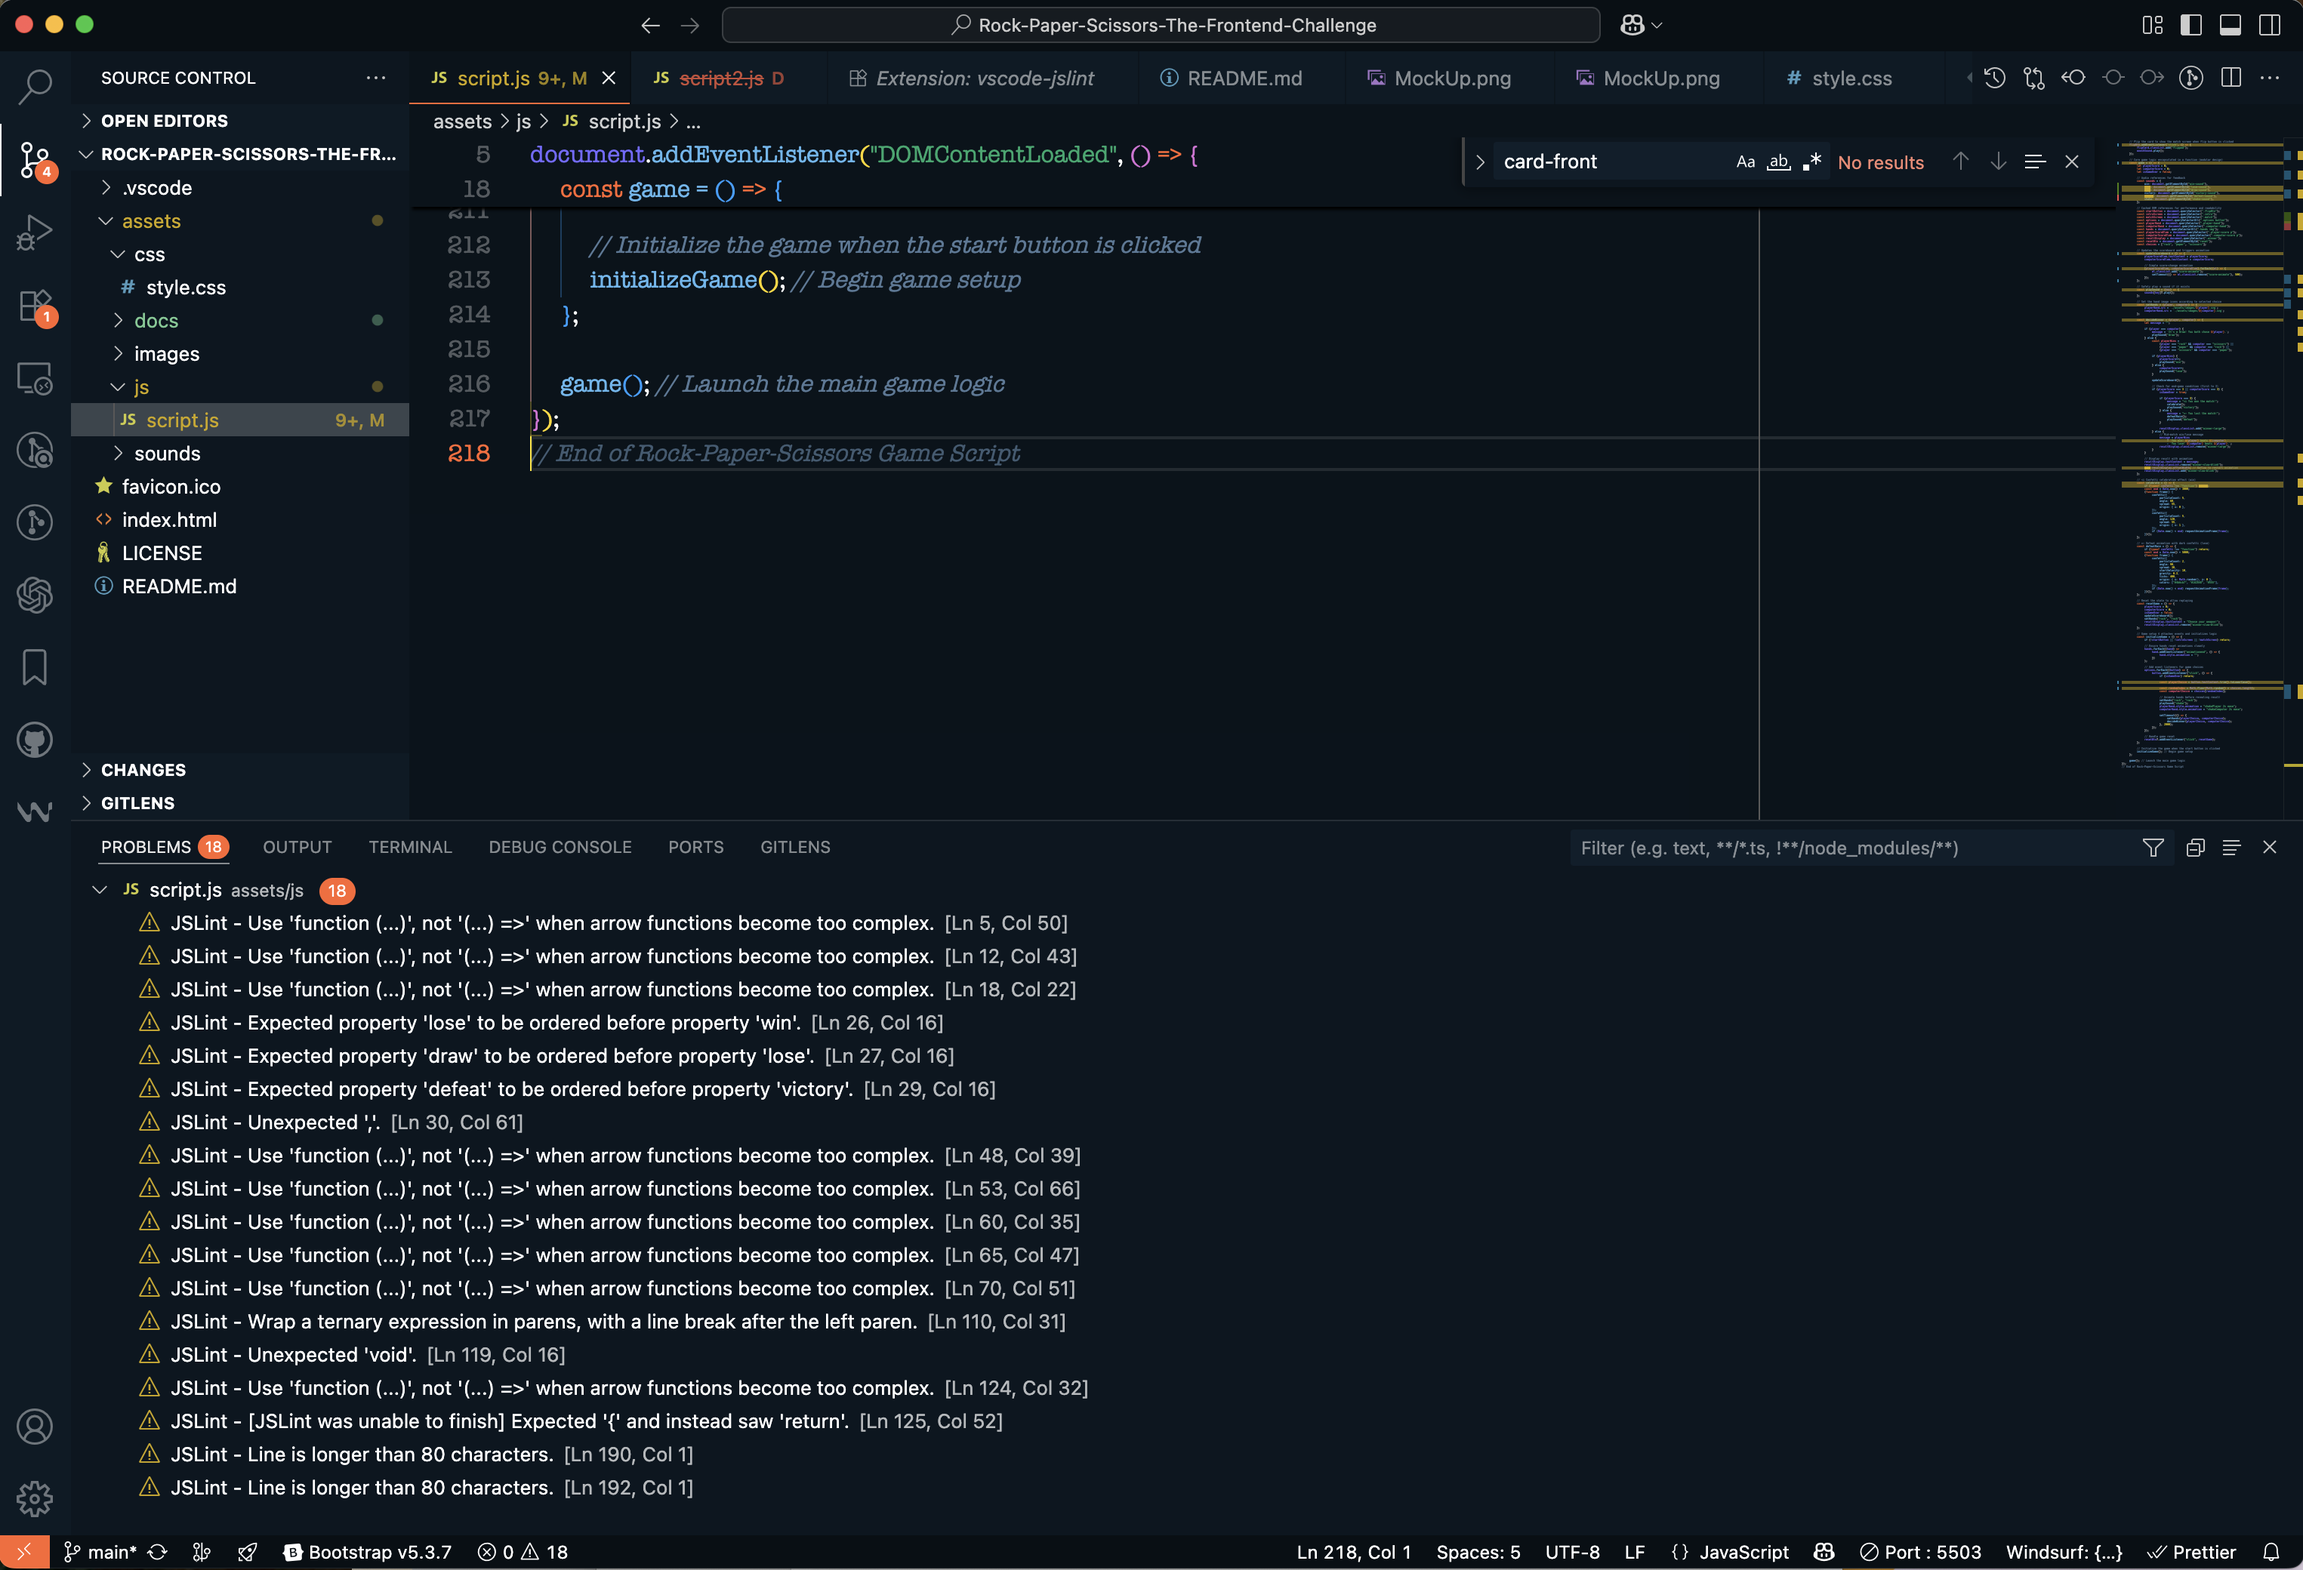
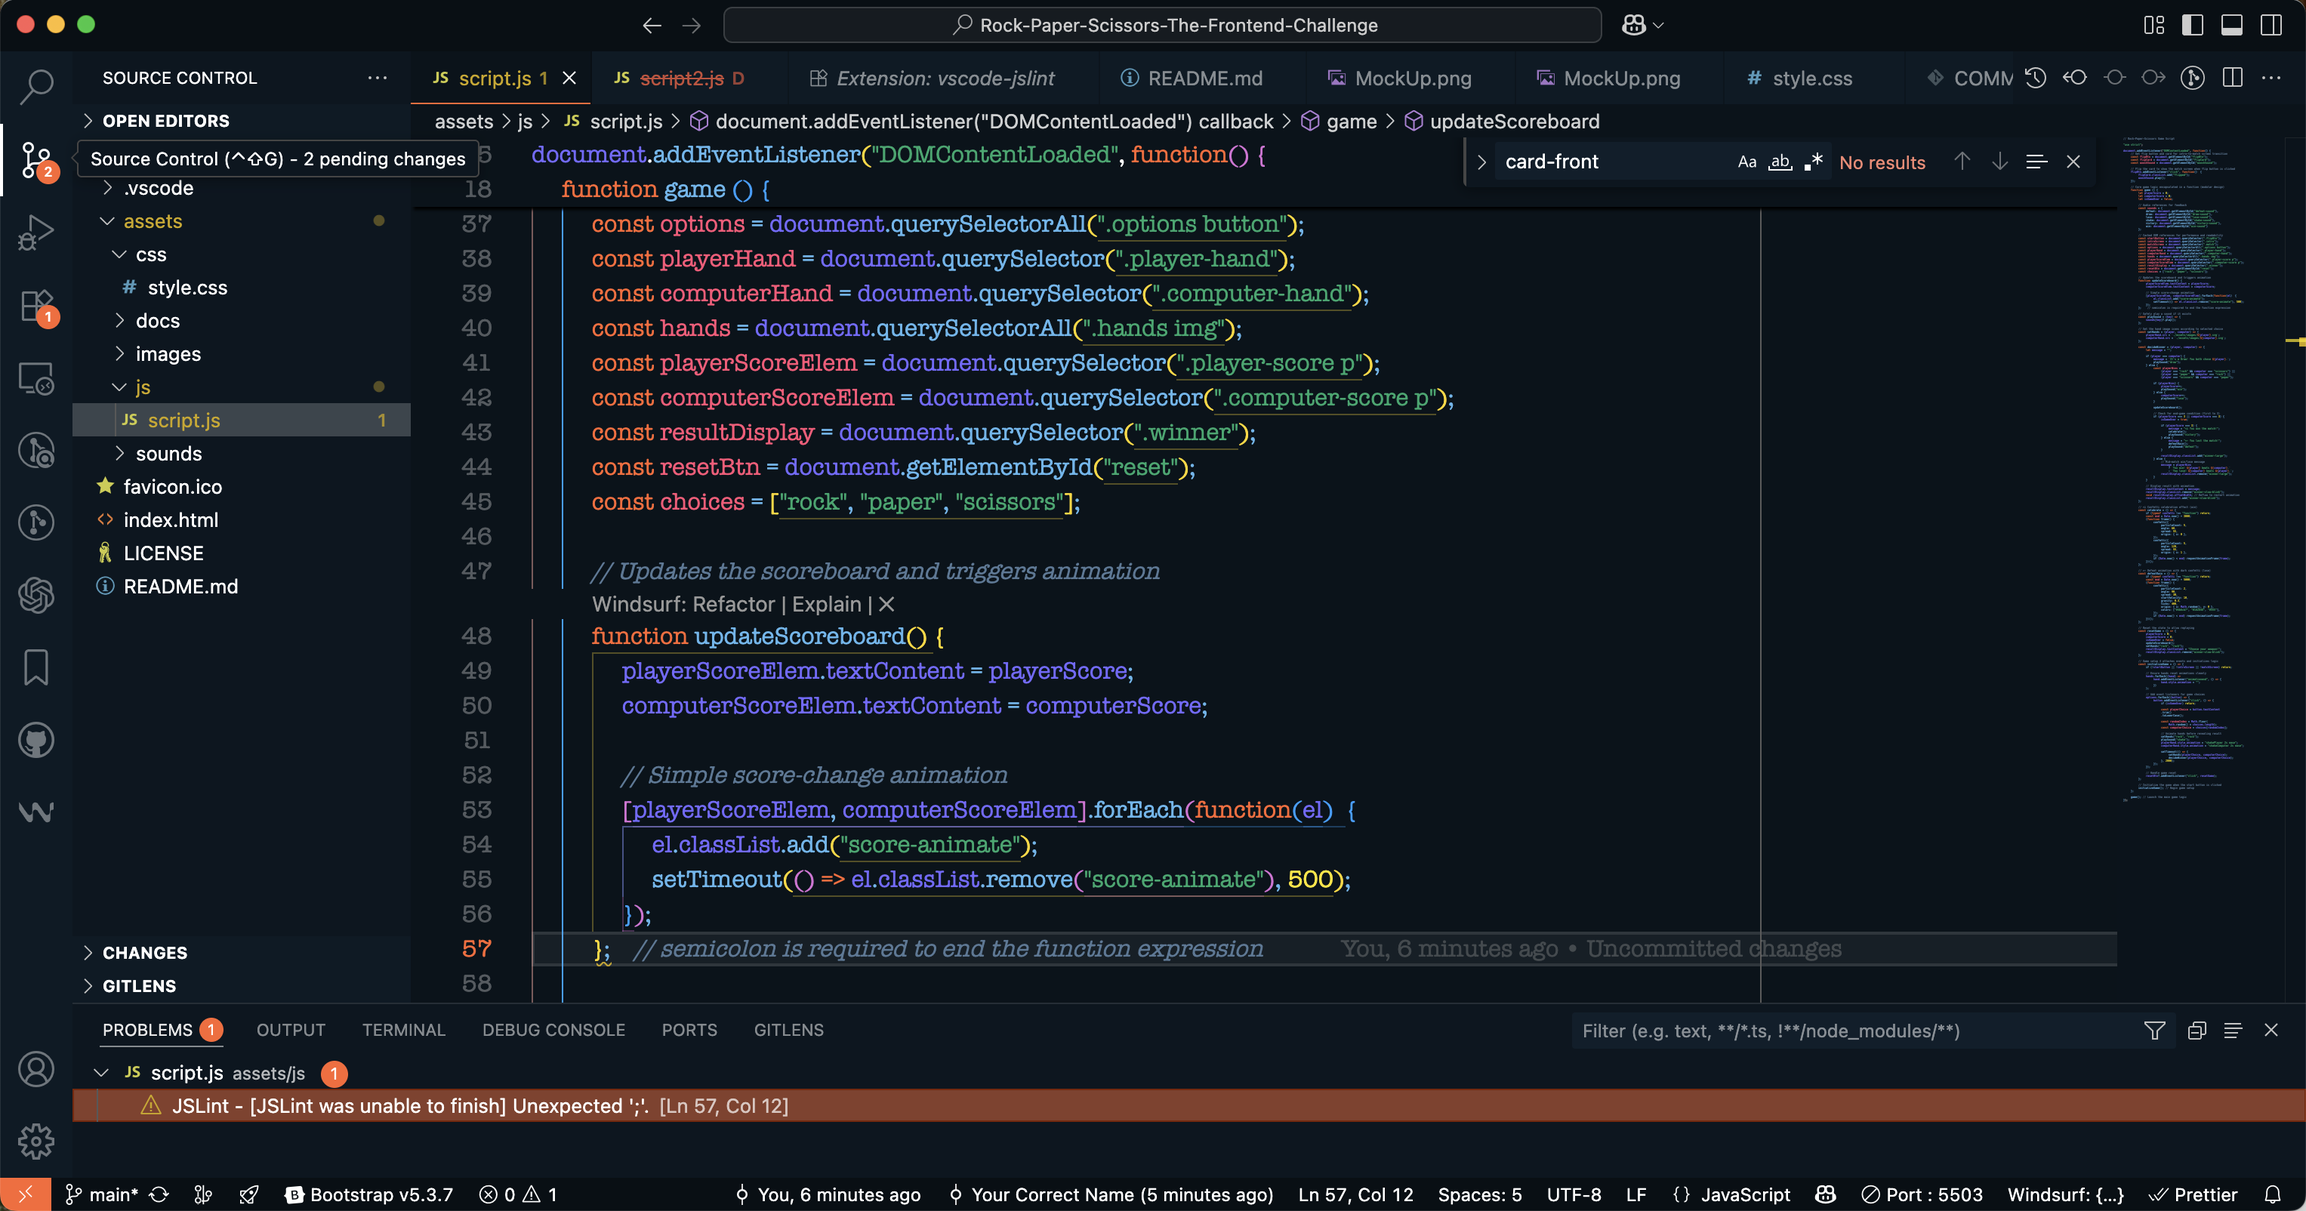
update image for jslint validation

diff --git a/README.md b/README.md
@@ -294,13 +294,16 @@ Google Lighthouse in Google Chrome Developer Tools was used to test the performa
 <img src="./assets/docs/validation/before-JSLint.png">
 </details>
 
-To ensure the JavaScript code adheres to best practices and is free of common errors, I installed the JSLint extension for Visual Studio Code. This tool automatically analyzes the script and displays any warnings or errors in the editor’s right panel. I systematically reviewed each reported issue and applied the necessary fixes to improve code quality. This iterative process was repeated until the code passed JSLint validation without any errors or warnings, ensuring a clean and maintainable codebase.
+To ensure the JavaScript code adheres to best practices and is free of common errors, I installed the JSLint extension for Visual Studio Code. This tool automatically analyzes the script and displays any warnings or errors in the editor’s right panel. I systematically reviewed each reported issue and applied the necessary fixes to improve code quality. 
+
+JSLint reported 18 warnings and errors that required correction. I carefully reviewed each issue and made the necessary code adjustments to ensure compliance with JavaScript best practices and improve overall code quality.
+This iterative process was repeated until the code passed JSLint validation without any errors or warnings, ensuring a clean and maintainable codebase.
 
 
 
 
 <details><summary>Script.js after passing JSLint</summary>
-<img src="./assets/docs/validation/After-JSLint.png">
+<img src="./assets/docs/validation/after-JSLint.png">
 </details>
 
 
